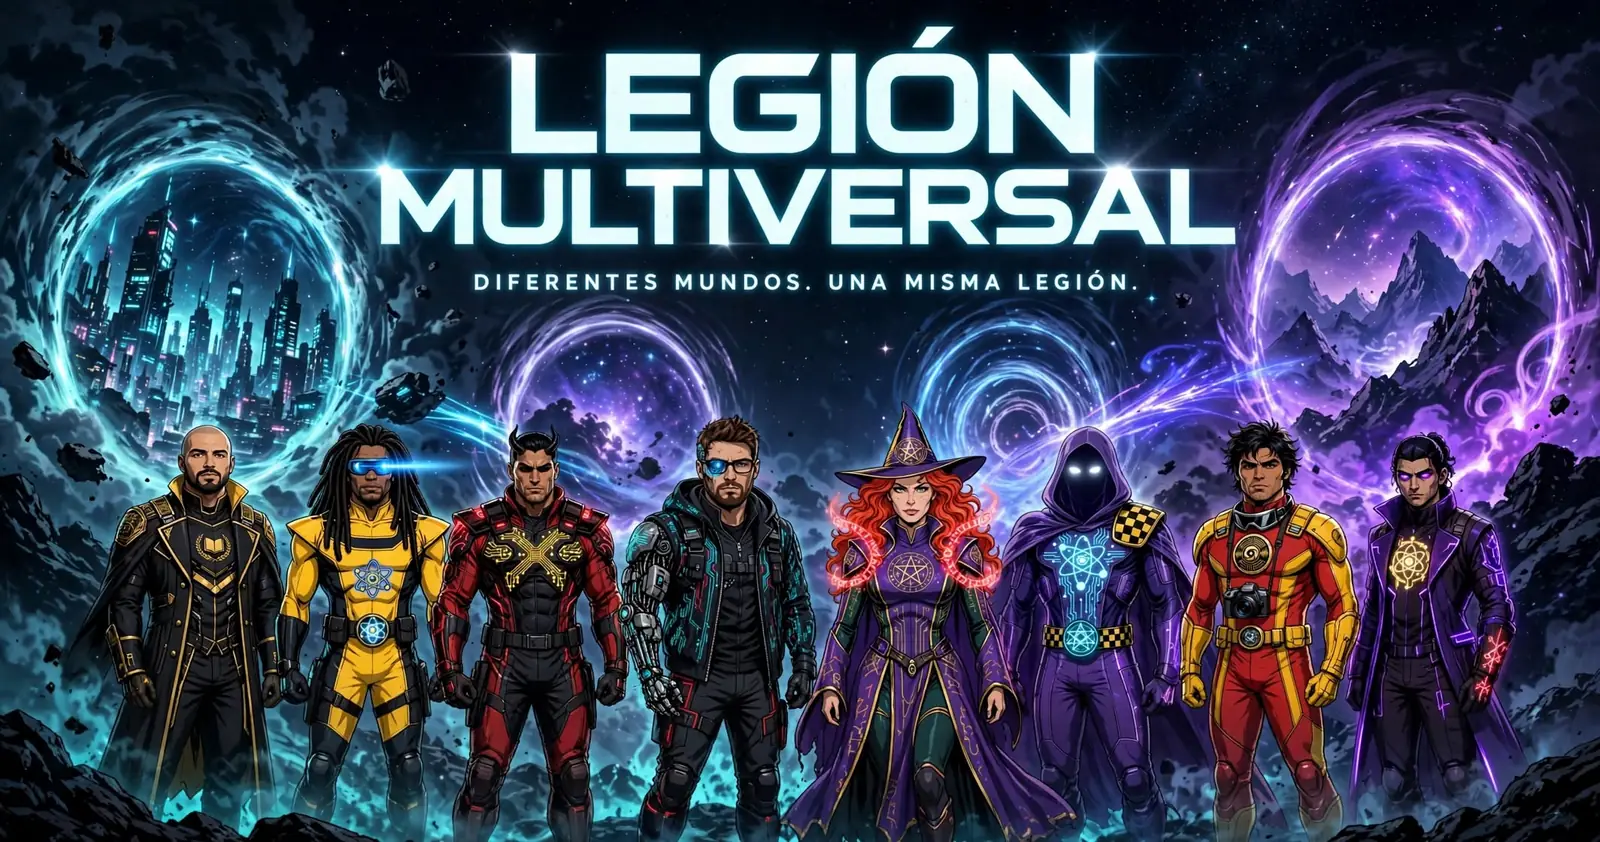
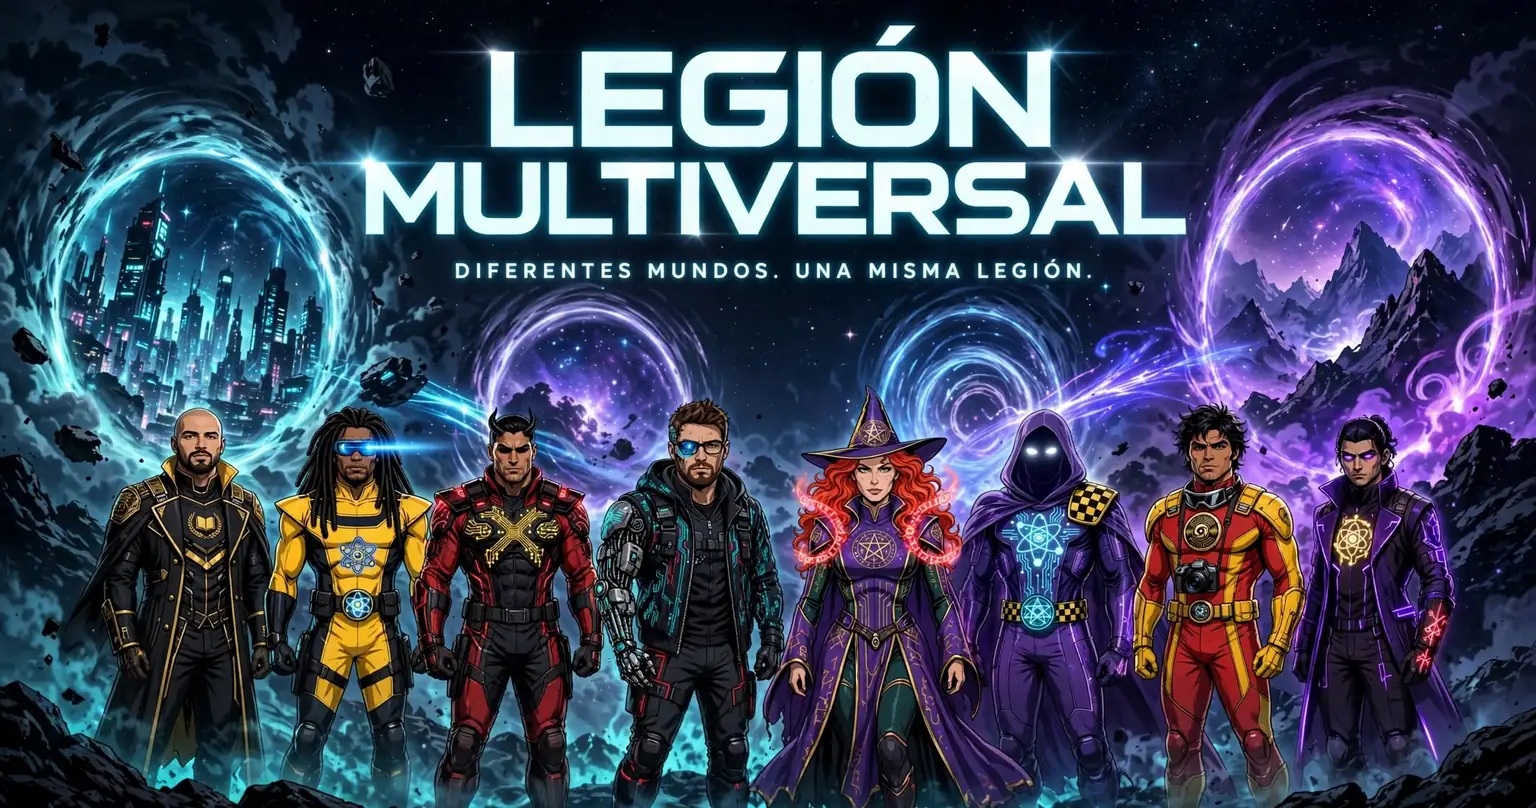
perf(home): serve optimized WebP hero image

diff --git a/index.html b/index.html
@@ -77,7 +77,7 @@
             <div class="chapter-tag">CAPÍTULO 00 · INICIO</div>
             <div class="executive-hero">
                 <figure class="executive-hero-art executive-hero-banner">
-                    <img src="image_20261106_124855.webp" alt="Imagen grupal de Legión Multiversal, con sus integrantes reunidos frente a distintos portales" loading="eager" fetchpriority="high" decoding="async" width="2128" height="1120"
+                    <img src="image_20261106_124855.webp" alt="Imagen grupal de Legión Multiversal, con sus integrantes reunidos frente a distintos portales" loading="eager" fetchpriority="high" decoding="async" width="1536" height="808"
                 </figure>
                 <div class="executive-hero-copy">
                     <p class="executive-kicker">CREADORES · GAMING · EXPERIENCIAS COMPARTIDAS</p>
